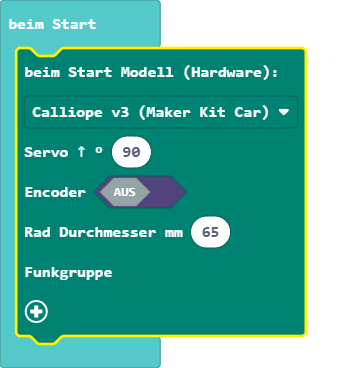
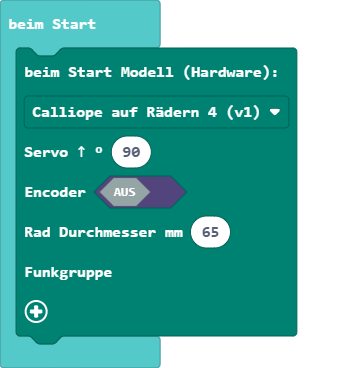
Aktualisiere main.blocks, main.ts, bluetooth.ts, r-receiver.ts

diff --git a/r-receiver.ts b/r-receiver.ts
@@ -2,16 +2,19 @@
 namespace receiver { // r-receiver.ts
     //radio: color=#E3008C weight=96 icon="\uf012" groups='["Group", "Broadcast", "Send", "Receive"]'
 
-    export enum eHardware {
+    export enum eHardware { // === NICHT DIE ZAHLENWERTE ÄNDERN, das ist der Index für die Pins, Funkgruppe, ===
+        //% block="Calli:Bot 2 (v1 v2 v3)"
+        calli2bot = 2,
         //% block="Calliope v3 (Maker Kit Car)"
         v3 = 0,     // Index in Arrays
         //% block="Calliope auf Rädern 4 (v1)"
-        car4 = 1,   // Index in Arrays
-        //% block="Calli:Bot 2 (v1 v2 v3)"
-        calli2bot = 2
+        car4 = 1   // Index in Arrays
     }
 
     export let n_Hardware = eHardware.v3 // Index in Arrays:// 0:_Calliope v3 Pins_
+
+    // eHardware ist der Index für folgende Arrays:
+    export let a_ModellFunkgruppe = [0xA8, 239, 0xB8] // v3, car4, callibot
 
     // Calliope v3 freie Pins: C8, C9, C12, C13, C14, C15
     export let a_PinRelay: DigitalPin[] = [109, DigitalPin.P0]     // 0:DigitalPin.C9 GPIO2
@@ -69,7 +72,7 @@ namespace receiver { // r-receiver.ts
     //% encoder.shadow="toggleOnOff"
     //% radDmm.min=60 radDmm.max=80 radDmm.defl=65
     //% zf.shadow="toggleYesNo" zf.defl=1
-    //% storagei32.min=160 storagei32.max=191 storagei32.defl=175
+    //% storagei32.min=160 storagei32.max=191
     // inlineInputMode=inline
     export function beimStart(modell: eHardware, servoGeradeaus: number, encoder: boolean, radDmm: number, zf = true, storagei32?: number) {
         n_Hardware = modell
@@ -77,7 +80,7 @@ namespace receiver { // r-receiver.ts
 
         pinRelay(true) // Relais an schalten (braucht gültiges n_Modell, um den Pin zu finden)
 
-        radio.setStorageBuffer(storagei32,175) // prüft und speichert in a_StorageBuffer
+        radio.setStorageBuffer(storagei32, a_ModellFunkgruppe[n_Hardware]) // prüft und speichert in a_StorageBuffer
         if (zf)
             radio.zeigeFunkgruppe()
 

diff --git a/bluetooth.ts b/bluetooth.ts
@@ -193,6 +193,7 @@ namespace radio { // bluetooth.ts
         // i32 aus Storage enthält 4 Byte, Funkgruppe und Modell (nur beim Sender), + 2 Byte unbenutzt
         // ist i32 undefined, kommt der Wert nicht aus Storage und es wird der Standardwert modellFunkgruppe genommen
         // der Standardwert hängt beim Empfänger von der gewählten Hardware ab
+       // basic.showNumber(i32)
         if (i32) {
             a_StorageBuffer.setNumber(NumberFormat.UInt32LE, 0, i32)
             // wenn angegeben, muss Funkgruppe (am offset 0) 0xA0 .. 0xBF sein

diff --git a/main.ts b/main.ts
@@ -1,5 +1,5 @@
 receiver.beimStart(
-receiver.eHardware.v3,
+receiver.eHardware.car4,
 90,
 false,
 65
